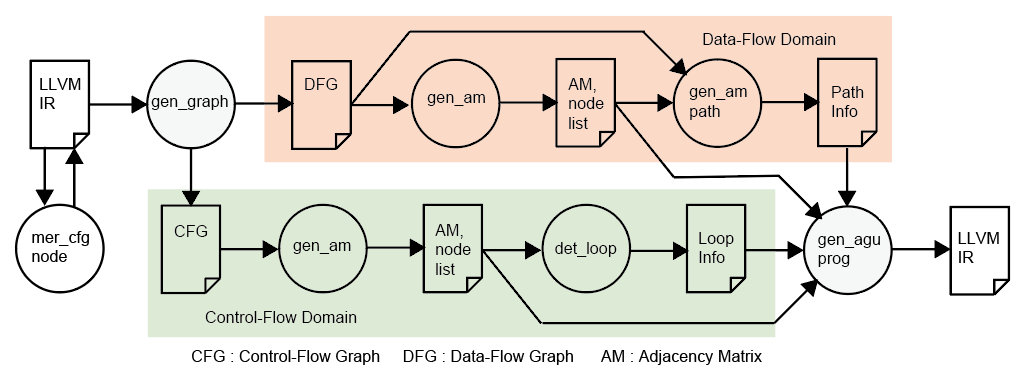
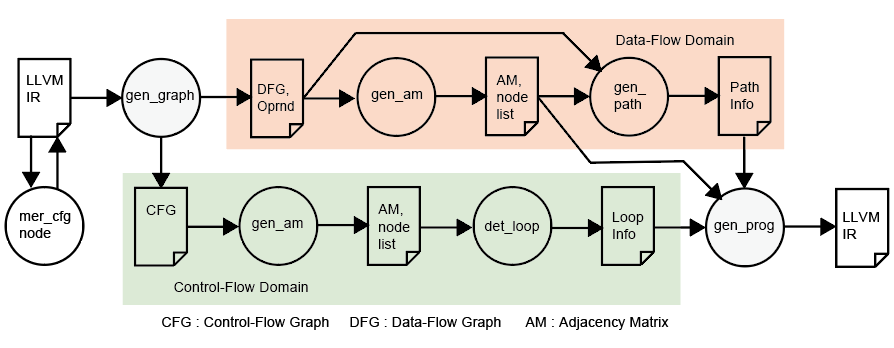
update: fig and text

diff --git a/README.md b/README.md
@@ -8,7 +8,9 @@
 
 - "asm" directory
 
-Electron Nest (EN) is CGRA-"like" microarchitecture (but very different from those arch types). EN does not needs adjustment of path length at place and route work in compilation, because the architecture supports synchronization for operands. Thus, the data-flow graph can be mapped on the EN's array without such the huge efforts.
+Electron Nest (EN) is CGRA-"like" microarchitecture (but very different from those arch types).
+EN does not needs adjustment of path length at place and route work in compilation, because the architecture supports synchronization for operands.
+Thus, the data-flow graph can be mapped on the EN's array without such the huge efforts.
 
 SystemVerilog and testbenches: https://github.com/IAMAl/ElectronNest_SV
 
@@ -32,7 +34,22 @@ Currently the backend generates only address generation program described by LLV
 But the compilation has lots of path information and control-flow information, thus such the propaties can be used for constructing datapath and scheduling, repspectively.
 
 
-#### 1. Generating Control-Flow and Data-Flow Graphs
+#### 1. Merging Nodes in Control-Flow Graph
+
+Remove unnecessary nodes in LLVM IR code.
+
+- python mer_cfgnode.py --src_name=source_cfg_file_name
+- input: LLVM IR (.ll) file
+- output: merged LLVM IR file (text file)
+
+##### Options
+
+- src_path: source file path
+- w_path: result file path
+- w_name: result file name, default: "agu_prog.ll"
+
+
+#### 2. Generating Control-Flow and Data-Flow Graphs
 
 - pyrhon gen_graph.py --src_name=your_source_llvm_ir_file_name --gen_type=select_cft_dfg_cdfg
 - input: LLVM IR (.ll) file
@@ -42,6 +59,7 @@ But the compilation has lots of path information and control-flow information, t
     - cfg: control-flow graph
     - dfg: data-flow graph
     - cdfg: both control- and dara- flow graphs
+
 
 ##### Options
 
@@ -54,7 +72,7 @@ But the compilation has lots of path information and control-flow information, t
 - w_path: result file path, default: "."
 
 
-#### 2. Generating Adjacency Matrix
+#### 3. Generating Adjacency Matrix
 
 - pythhon gen_am.py --src_name=your_source_graph_file_name
 - input: control- or data- flow graph generated by gen_graph.py
@@ -66,7 +84,7 @@ But the compilation has lots of path information and control-flow information, t
 - w_path: result file path, default: "."
 
 
-#### 3. Generating Data-Flow Path Info for Basic Blocks
+#### 4. Generating Data-Flow Path Info for Basic Blocks
 
 - python gen_path.py --src_name=source_am_file_name
 - input: Adjacency Matrix file, generated by gen_am.py
@@ -79,7 +97,7 @@ But the compilation has lots of path information and control-flow information, t
 - format=[yes/no]: parsing LLVM IR file to work, default "no"
 
 
-#### 4. Loop Detection in Control-Flow Graph
+#### 5. Loop Detection in Control-Flow Graph
 
 - python det_loop.py --src_name=source_cfg_file_name --w_name=output_file_name
 - input: control-flow graph's adjacency matrix file generated by gen_am.py
@@ -91,7 +109,7 @@ But the compilation has lots of path information and control-flow information, t
 - w_path: result file path
 
 
-#### 5. Generating Address Generation Program (Under Testing)
+#### 6. Generating Address Generation Program (Under Testing)
 
 - python gen_rog.py --src_name=source_cfg_file_name --cfg_name=llvm_ir_name
 - input: control-flow graph's adjacency matrix file generated by gen_am.py, loop path list file generated by det_loop.py, node info files generated by gen_am.py, and path info files generated by gen_path.py
@@ -100,16 +118,3 @@ But the compilation has lots of path information and control-flow information, t
 ##### Options
 - src_path: source file path, default: "."
 - w_path: result file path, default "."
-
-
-#### 6. Merging Nodes in Control-Flow Graph
-
-- python mer_cfgnode.py --src_name=source_cfg_file_name
-- input: LLVM IR (.ll) file
-- output: merged LLVM IR file (text file)
-
-##### Options
-
-- src_path: source file path
-- w_path: result file path
-- w_name: result file name, default: "agu_prog.ll"
